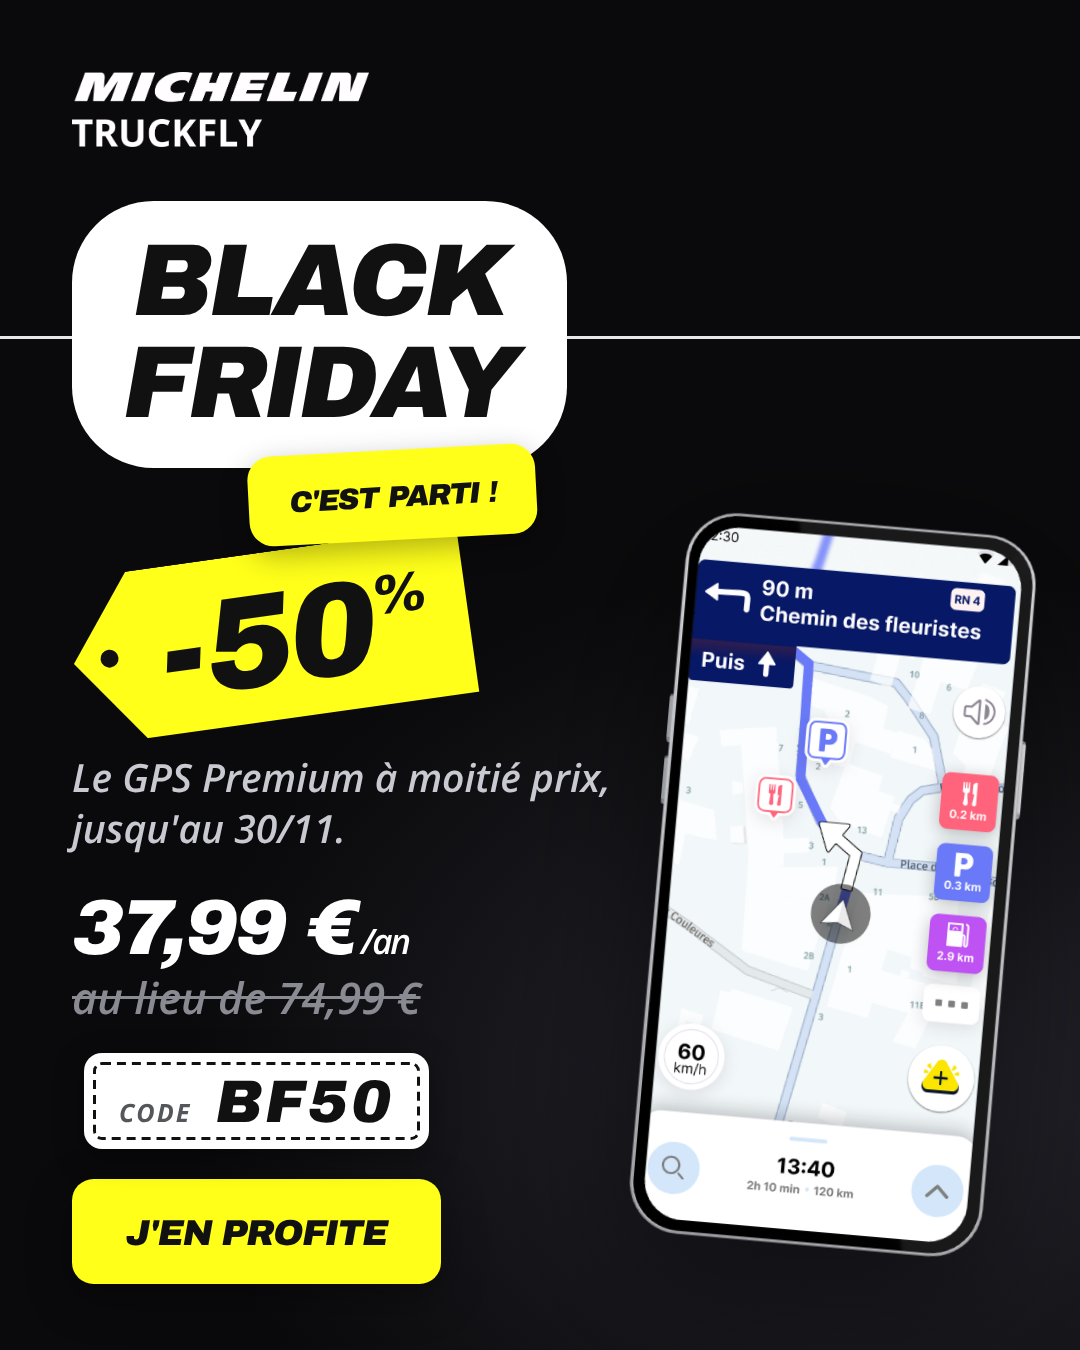
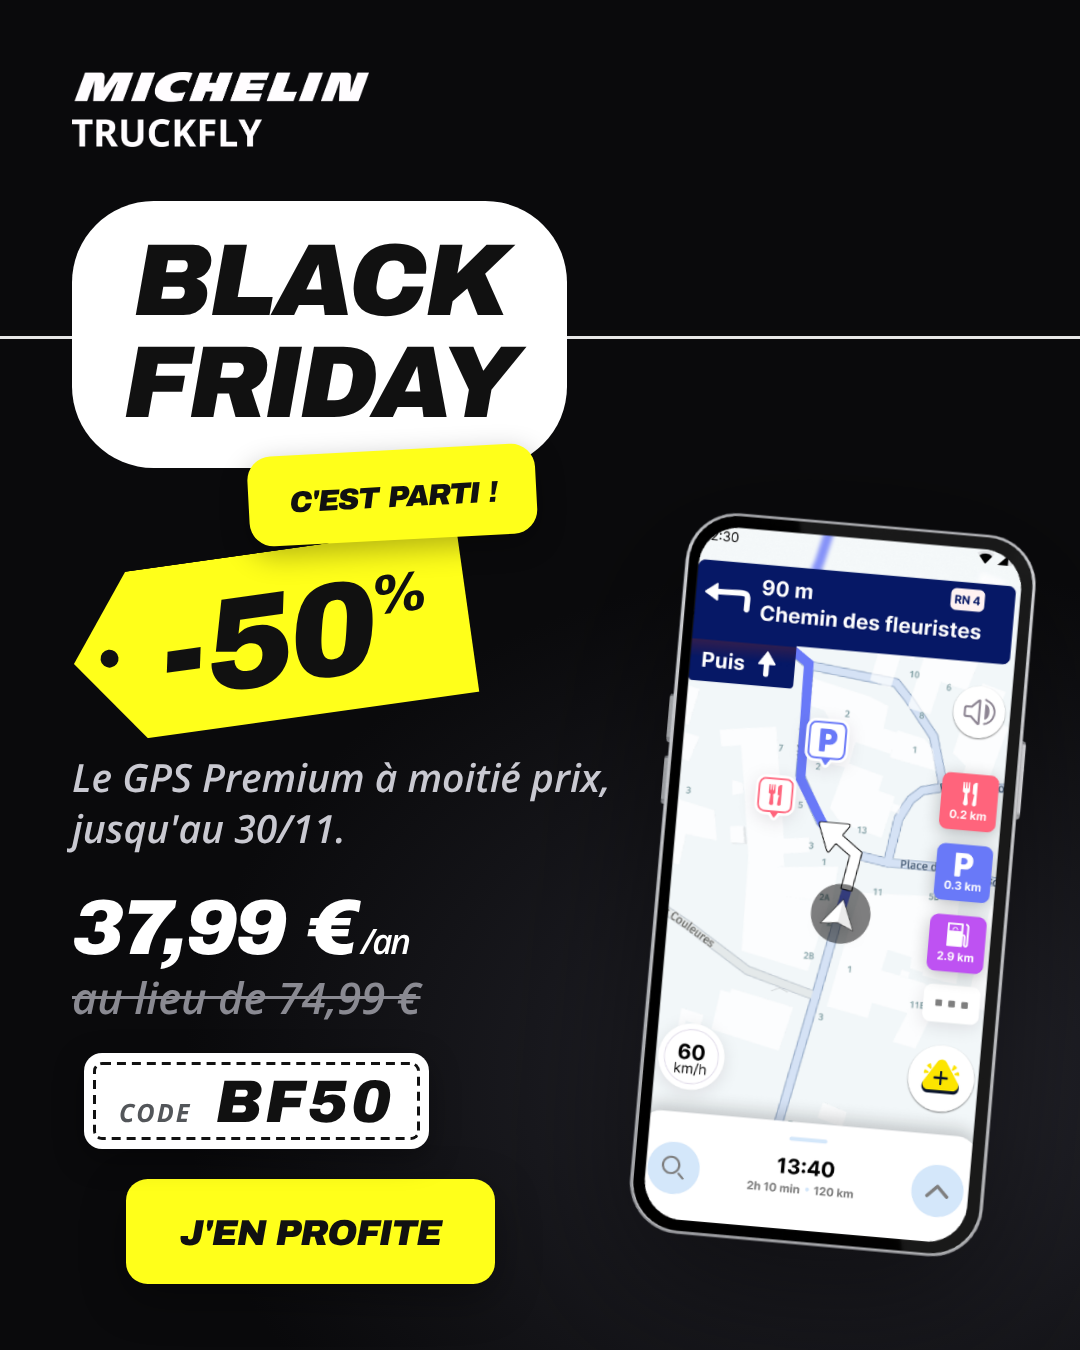
Black Friday: shift Meta post CTA to the right
Claude-Session: https://claude.ai/code/session_01Dxf6WNpnQxv74aPZfAxqSJ

Changed region(s): [[0.0611, 0.8711, 0.4583, 0.9644]]

diff --git a/black-friday/campagne.html b/black-friday/campagne.html
@@ -154,7 +154,7 @@ figcaption b { color: #111; }
 .post .code { font-size: 2em; }
 /* Code et bouton empilés, bouton centré sous le coupon */
 .post .offre-bas { align-self: flex-start; display: flex; flex-direction: column; align-items: center; gap: 1em; }
-.post .offre-bas .cta { align-self: center; }
+.post .offre-bas .cta { align-self: center; position: relative; left: 1.5em; }
 .post.offre .gauche { gap: 1.05em; margin-top: 2.8em; }
 .funnel .ligne-prix { display: flex; align-items: center; gap: 1.6em; }
 .funnel .tag { flex: none; }
